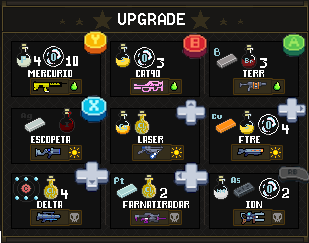
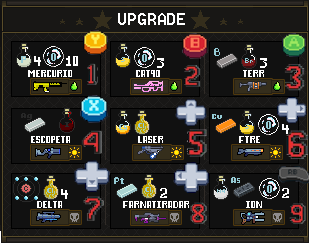
cambiox

diff --git a/src/main/java/Elementos/Enemigos/BOSS2.java b/src/main/java/Elementos/Enemigos/BOSS2.java
@@ -101,7 +101,6 @@ public class BOSS2 extends Enemigo {
             // Verificar si el jugador está dentro del rango de detección
             if (puedeVerJugador(Juego.jugadorActual)) {
                 activado = true;
-                System.out.println("¡Zefir ha sido despertado!");
                 AudioManager.getInstance().playMusic("boss2");
             } else {
                 // Si aún no está activado, solo actualizar animación básica
@@ -442,8 +441,6 @@ public class BOSS2 extends Enemigo {
         // Incrementar el contador
         totalEnemigosInvocados++;
     }
-    
-    System.out.println("¡Zefir ha invocado " + enemigosAInvocarAhora + " Skelers! (" + totalEnemigosInvocados + "/" + limiteEnemigosInvocados + ")");
 }
     
     @Override
